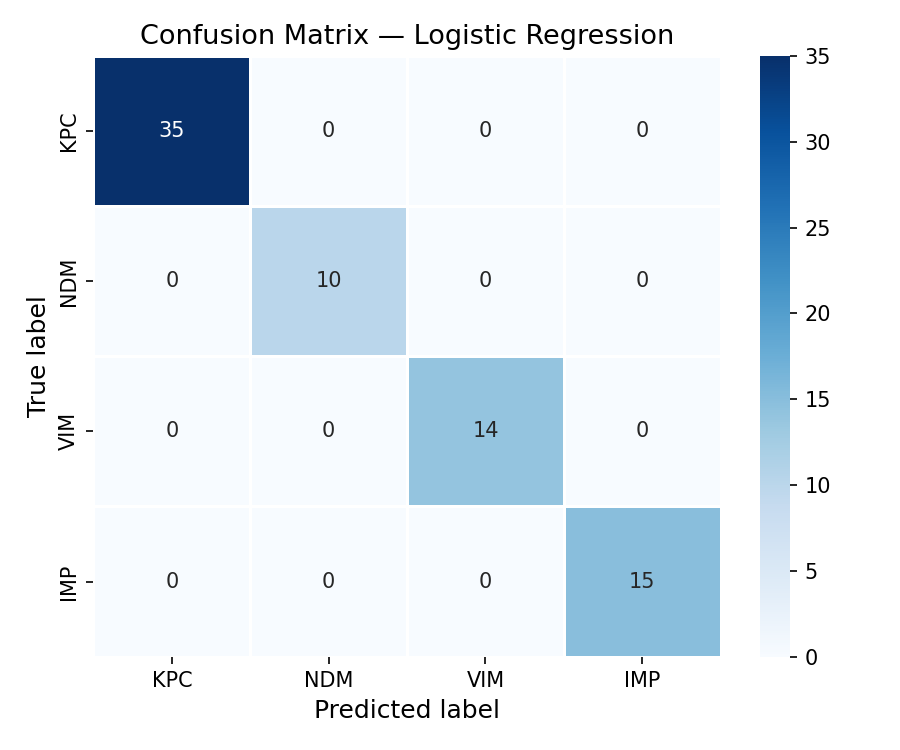
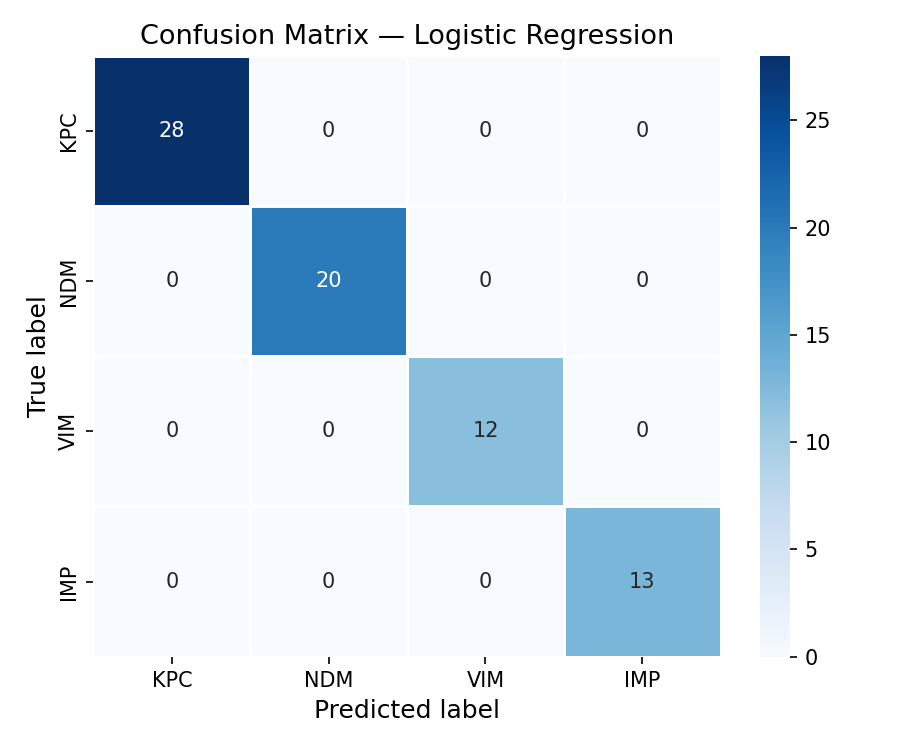
feat: milestone 1 — cluster-aware train/val/test splitting

diff --git a/arg-classifier/src/arg_classifier/data_split.py b/arg-classifier/src/arg_classifier/data_split.py
@@ -1,5 +1,15 @@
-"""Stratified train/val/test split at the accession level to prevent leakage."""
+"""Cluster-aware train/val/test split.
+
+Sequences whose k-mer Jaccard similarity exceeds `split.cluster_identity`
+are grouped into the same cluster.  Whole clusters are assigned to a single
+split, so no near-identical sequences leak across train/val/test.
+
+If a family collapses to a single cluster (all variants are extremely
+similar), sequences are distributed randomly within that cluster and a
+warning is printed.
+"""
 import sys
+from collections import defaultdict
 from pathlib import Path
 
 import pandas as pd
@@ -11,18 +21,83 @@ FAMILIES = ("KPC", "NDM", "VIM", "IMP")
 MIN_TEST_CLASS = 10
 
 
-def split_accessions(accessions, train_frac, val_frac, rng):
-    """Shuffle accessions and split into train/val/test lists."""
-    acc = list(accessions)
-    rng.shuffle(acc)
-    n = len(acc)
+# ── Clustering helpers ────────────────────────────────────────────────────────
+
+def _kmer_set(sequence: str, k: int) -> frozenset:
+    return frozenset(sequence[i : i + k] for i in range(len(sequence) - k + 1))
+
+
+def _jaccard(a: frozenset, b: frozenset) -> float:
+    union = len(a | b)
+    return len(a & b) / union if union else 0.0
+
+
+def cluster_by_similarity(sequences: list, k: int, threshold: float) -> list:
+    """Greedy single-linkage clustering on k-mer Jaccard similarity.
+
+    Each cluster is represented by its first member.  A new sequence joins
+    the first cluster whose representative has Jaccard >= threshold with it;
+    otherwise a new cluster is created.
+
+    Returns a list of integer cluster IDs (one per sequence).
+    """
+    ksets = [_kmer_set(s, k) for s in sequences]
+    cluster_ids = []
+    # representative index for each cluster
+    representatives: list[int] = []
+
+    for i, kset in enumerate(ksets):
+        assigned = -1
+        for cid, rep_idx in enumerate(representatives):
+            if _jaccard(kset, ksets[rep_idx]) >= threshold:
+                assigned = cid
+                break
+        if assigned == -1:
+            assigned = len(representatives)
+            representatives.append(i)
+        cluster_ids.append(assigned)
+
+    return cluster_ids
+
+
+# ── Split helpers ─────────────────────────────────────────────────────────────
+
+def _assign_splits(cluster_ids: list, train_frac: float, val_frac: float,
+                   rng: np.random.Generator) -> list:
+    """Map each cluster to train/val/test. Returns per-row split label."""
+    unique = list(set(cluster_ids))
+    rng.shuffle(unique)
+    n = len(unique)
     n_train = max(1, round(n * train_frac))
     n_val   = max(1, round(n * val_frac))
-    train = acc[:n_train]
-    val   = acc[n_train:n_train + n_val]
-    test  = acc[n_train + n_val:]
-    return train, val, test
 
+    train_set = set(unique[:n_train])
+    val_set   = set(unique[n_train : n_train + n_val])
+
+    return [
+        "train" if cid in train_set else ("val" if cid in val_set else "test")
+        for cid in cluster_ids
+    ]
+
+
+def _random_splits(n: int, train_frac: float, val_frac: float,
+                   rng: np.random.Generator) -> list:
+    """Fallback: randomly assign n items to splits (single-cluster case)."""
+    idx = list(range(n))
+    rng.shuffle(idx)
+    n_train = max(1, round(n * train_frac))
+    n_val   = max(1, round(n * val_frac))
+    assignments = [""] * n
+    for i in idx[:n_train]:
+        assignments[i] = "train"
+    for i in idx[n_train : n_train + n_val]:
+        assignments[i] = "val"
+    for i in idx[n_train + n_val :]:
+        assignments[i] = "test"
+    return assignments
+
+
+# ── Main ──────────────────────────────────────────────────────────────────────
 
 def run(config_path: str = "configs/mvp.yaml") -> None:
     cfg = load_config(config_path)
@@ -33,23 +108,53 @@ def run(config_path: str = "configs/mvp.yaml") -> None:
     proc_dir = Path(cfg["data"]["processed_dir"])
     proc_dir.mkdir(parents=True, exist_ok=True)
 
-    df = pd.read_csv(raw_dir / "metadata.csv")
-    print(f"Loaded {len(df)} sequences from metadata.csv")
-
+    k         = cfg["features"]["kmer_size"]
+    threshold = cfg["split"].get("cluster_identity", 0.98)
     train_frac = cfg["split"]["train"]
     val_frac   = cfg["split"]["val"]
 
-    train_acc, val_acc, test_acc = set(), set(), set()
+    df = pd.read_csv(raw_dir / "metadata.csv")
+    print(f"Loaded {len(df)} sequences from metadata.csv")
+    print(f"Clustering at Jaccard threshold={threshold}  (k={k})\n")
+
+    split_col = [""] * len(df)
+    cluster_report = {}
 
     for fam in FAMILIES:
-        fam_df = df[df["label"] == fam]
-        unique_acc = fam_df["accession"].unique()
-        tr, va, te = split_accessions(unique_acc, train_frac, val_frac, rng)
-        train_acc.update(tr)
-        val_acc.update(va)
-        test_acc.update(te)
+        mask = df["label"] == fam
+        fam_idx = df.index[mask].tolist()
+        seqs    = df.loc[fam_idx, "sequence"].tolist()
 
-    # Verify no overlap
+        cids = cluster_by_similarity(seqs, k, threshold)
+        n_clusters = len(set(cids))
+        cluster_report[fam] = n_clusters
+
+        if n_clusters == 1:
+            print(f"  {fam}: {len(seqs)} sequences → 1 cluster "
+                  f"(all variants are >{threshold:.0%} similar; "
+                  f"splitting sequences randomly within cluster)")
+            assignments = _random_splits(len(seqs), train_frac, val_frac, rng)
+        else:
+            print(f"  {fam}: {len(seqs)} sequences → {n_clusters} clusters")
+            assignments = _assign_splits(cids, train_frac, val_frac, rng)
+
+        for row_pos, global_idx in enumerate(fam_idx):
+            split_col[df.index.get_loc(global_idx)] = assignments[row_pos]
+
+    df["_split"] = split_col
+
+    train_df = df[df["_split"] == "train"].drop(columns="_split").reset_index(drop=True)
+    val_df   = df[df["_split"] == "val"  ].drop(columns="_split").reset_index(drop=True)
+    test_df  = df[df["_split"] == "test" ].drop(columns="_split").reset_index(drop=True)
+
+    train_df.to_csv(proc_dir / "train.csv", index=False)
+    val_df.to_csv(proc_dir / "val.csv",     index=False)
+    test_df.to_csv(proc_dir / "test.csv",   index=False)
+
+    # ── Verify no overlap ────────────────────────────────────────────────────
+    train_acc = set(train_df["accession"])
+    val_acc   = set(val_df["accession"])
+    test_acc  = set(test_df["accession"])
     overlap_tv = train_acc & val_acc
     overlap_tt = train_acc & test_acc
     overlap_vt = val_acc   & test_acc
@@ -57,25 +162,24 @@ def run(config_path: str = "configs/mvp.yaml") -> None:
     assert not overlap_tt, f"Train/Test overlap: {overlap_tt}"
     assert not overlap_vt, f"Val/Test overlap: {overlap_vt}"
 
-    train_df = df[df["accession"].isin(train_acc)].reset_index(drop=True)
-    val_df   = df[df["accession"].isin(val_acc)].reset_index(drop=True)
-    test_df  = df[df["accession"].isin(test_acc)].reset_index(drop=True)
-
-    train_df.to_csv(proc_dir / "train.csv", index=False)
-    val_df.to_csv(proc_dir / "val.csv",   index=False)
-    test_df.to_csv(proc_dir / "test.csv", index=False)
-
-    # ── Build summary ────────────────────────────────────────────────────────
+    # ── Summary ──────────────────────────────────────────────────────────────
     lines = []
-    lines.append("=" * 55)
-    lines.append("TRAIN / VAL / TEST SPLIT SUMMARY")
-    lines.append("=" * 55)
+    lines.append("=" * 60)
+    lines.append("CLUSTER-AWARE TRAIN / VAL / TEST SPLIT SUMMARY")
+    lines.append("=" * 60)
+    lines.append(f"\nClustering: k={k}, Jaccard threshold={threshold}")
+    lines.append(f"\nClusters per family:")
+    for fam in FAMILIES:
+        n_c = cluster_report[fam]
+        note = " ← single cluster, split randomly" if n_c == 1 else ""
+        lines.append(f"  {fam}: {n_c} cluster(s){note}")
+
     lines.append(f"\n{'Split':<8} {'Total':>6}  " + "  ".join(f"{f:>5}" for f in FAMILIES))
-    lines.append("-" * 55)
+    lines.append("-" * 60)
 
     warnings = []
     for split_name, split_df in [("train", train_df), ("val", val_df), ("test", test_df)]:
-        dist = split_df["label"].value_counts()
+        dist   = split_df["label"].value_counts()
         counts = [dist.get(f, 0) for f in FAMILIES]
         lines.append(
             f"{split_name:<8} {len(split_df):>6}  " +
@@ -86,7 +190,7 @@ def run(config_path: str = "configs/mvp.yaml") -> None:
                 if c < MIN_TEST_CLASS:
                     warnings.append(f"WARNING: {fam} has only {c} sequences in test set")
 
-    lines.append("-" * 55)
+    lines.append("-" * 60)
     lines.append(f"\nAccession overlap checks:")
     lines.append(f"  Train ∩ Val  : {len(overlap_tv)}")
     lines.append(f"  Train ∩ Test : {len(overlap_tt)}")
@@ -99,9 +203,9 @@ def run(config_path: str = "configs/mvp.yaml") -> None:
     else:
         lines.append(f"\nAll classes have ≥{MIN_TEST_CLASS} sequences in test set ✓")
 
-    lines.append("=" * 55)
+    lines.append("=" * 60)
     summary = "\n".join(lines)
-    print(summary)
+    print("\n" + summary)
 
     summary_path = proc_dir / "split_summary.txt"
     with open(summary_path, "w") as fh:

diff --git a/arg-classifier/scripts/generate_synthetic_data.py b/arg-classifier/scripts/generate_synthetic_data.py
@@ -1,0 +1,85 @@
+"""Generate synthetic CARD-like FASTA data for pipeline testing.
+
+Creates 489 sequences across 4 families (KPC, NDM, VIM, IMP) that mimic
+real CARD data: within-family sequences differ by only a few SNPs, while
+cross-family sequences are biologically distinct.
+
+Usage (from arg-classifier/):
+    python3 scripts/generate_synthetic_data.py
+"""
+import random
+from pathlib import Path
+
+random.seed(42)
+
+FAMILIES = {
+    "KPC": {"n": 230, "length": 882},
+    "NDM": {"n": 67, "length": 813},
+    "VIM": {"n": 91, "length": 801},
+    "IMP": {"n": 101, "length": 861},
+}
+
+ARO_COUNTER = 3000000
+
+
+def random_seq(length: int) -> str:
+    return "".join(random.choices("ATGC", k=length))
+
+
+def mutate(seq: str, n_snps: int) -> str:
+    s = list(seq)
+    positions = random.sample(range(len(s)), min(n_snps, len(s)))
+    for pos in positions:
+        s[pos] = random.choice([c for c in "ATGC" if c != s[pos]])
+    return "".join(s)
+
+
+def make_header(accession: str, aro_id: str, gene_name: str, organism: str) -> str:
+    # Mimics CARD format: gb|ACCESSION|+|1-LEN|ARO:ID|GENE_NAME [ORGANISM]
+    return f"gb|{accession}|+|1-999|{aro_id}|{gene_name} [{organism}]"
+
+
+def main():
+    raw_dir = Path("data/raw")
+    raw_dir.mkdir(parents=True, exist_ok=True)
+    out_path = raw_dir / "card_sequences.fasta"
+
+    records = []
+    global ARO_COUNTER
+
+    for family, cfg in FAMILIES.items():
+        n_seqs = cfg["n"]
+        length = cfg["length"]
+
+        # Generate a "founder" sequence for this family
+        founder = random_seq(length)
+
+        for i in range(1, n_seqs + 1):
+            # Each allele differs from the founder by 0-15 SNPs
+            n_snps = random.randint(0, 15)
+            seq = mutate(founder, n_snps)
+
+            gene_name = f"{family}-{i}"
+            accession = f"SYN{family}{i:04d}"
+            aro_id = f"ARO:{ARO_COUNTER}"
+            ARO_COUNTER += 1
+            organism = "Klebsiella pneumoniae"
+
+            header = make_header(accession, aro_id, gene_name, organism)
+            records.append((header, seq))
+
+    # Write FASTA
+    with open(out_path, "w") as fh:
+        for header, seq in records:
+            fh.write(f">{header}\n")
+            # Wrap at 60 chars
+            for j in range(0, len(seq), 60):
+                fh.write(seq[j : j + 60] + "\n")
+
+    print(f"Wrote {len(records)} synthetic sequences to {out_path}")
+    for fam, cfg in FAMILIES.items():
+        print(f"  {fam}: {cfg['n']} sequences ({cfg['length']} bp each)")
+
+
+if __name__ == "__main__":
+    main()

diff --git a/arg-classifier/src/arg_classifier/train.py b/arg-classifier/src/arg_classifier/train.py
@@ -40,7 +40,6 @@ def run(config_path: str = "configs/mvp.yaml") -> None:
         C=model_cfg["C"],
         max_iter=model_cfg["max_iter"],
         solver="lbfgs",
-        multi_class="multinomial",
         random_state=cfg["seed"],
         verbose=0,
     )
